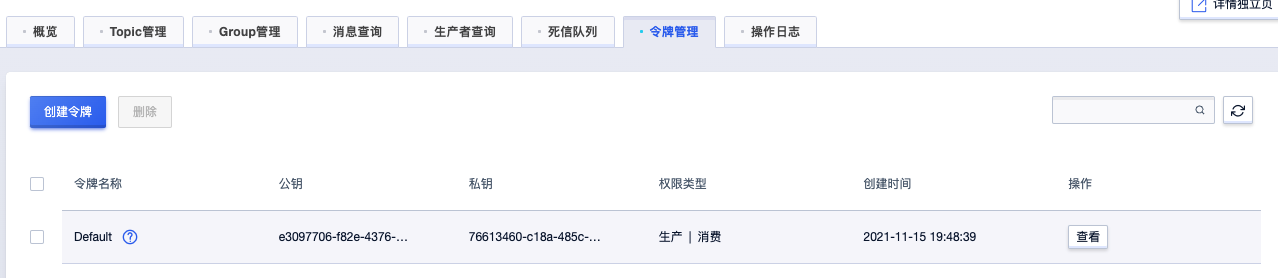
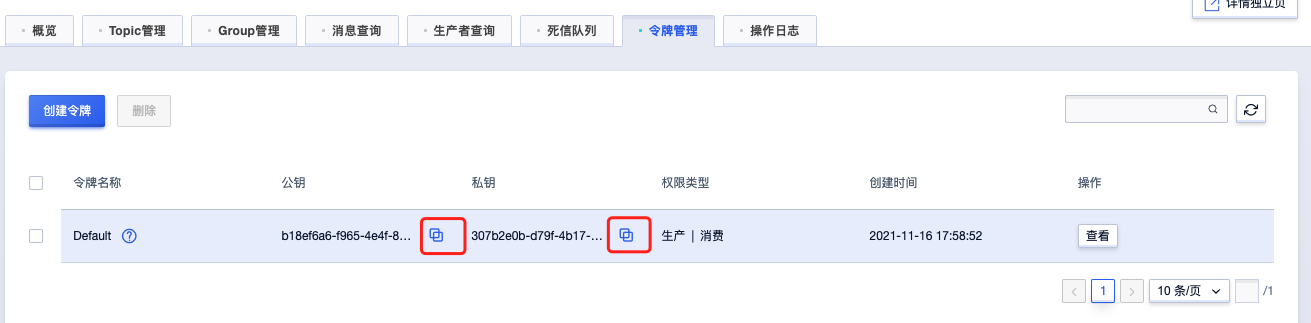
文档更新

diff --git a/practice/index.md b/practice/index.md
@@ -4,23 +4,23 @@
 
 ## 创建实例
 
-创建需要规格的实例，并获取实例的接入地址。
+创建需要配置的实例，可在实例列表获取实例访问地址，具体参考[实例创建](/rocketmq/guide/instance/create.md)。
 
 ## 创建Topic
 
-在“Topic管理”页创建指定消息类型的Topic。
+在“Topic管理”页创建指定消息类型的Topic并获取Topic名称，具体参考[Topic创建](/rocketmq/guide/topic/create.md)
 
 ## 创建Group
 
-在“Group管理”页创建Group。
+在“Group管理”页创建Group并获取Group名称，具体参考[Group创建](/rocketmq/guide/topic/create.md)
 
-## 获取令牌
+## 获取令牌公私钥
 
-在“令牌”页选择对应的令牌获取公钥与私钥，客户端接入时需要使用。
+在“令牌管理”页选择对应的令牌获取公钥与私钥，客户端接入时需要使用，具体参考[令牌列表](/rocketmq/guide/topic/create.md)
 
 ## SDK接入
 
-URocketMQ兼容开源RocketMQ协议，用户可下载对应语言的开源SDK，并利用实例接入地址、Topic名称、Group名称、公私钥信息（ACL使用）进行使用。
+URocketMQ兼容开源RocketMQ协议，用户可下载对应语言的开源SDK，并利用实例接入地址、Topic名称、Group名称、令牌公私钥信息进行接入。
 
 不同语言SDK接入实例如下，请根据实际情况选择不同语言SDK及版本。
 * [JAVA接入指南](./java/index)

diff --git a/guide/instance/create.md b/guide/instance/create.md
@@ -14,7 +14,7 @@
 
 ## 实例规格
 
-企业版本支持不同梯度规格，具体规格及计算方式见[性能指标](../../capacity/index)
+企业版本支持不同梯度规格，具体规格及计算方式见[性能指标](/rocketmq/capacity/index)
 
 ## 消息存储
 
